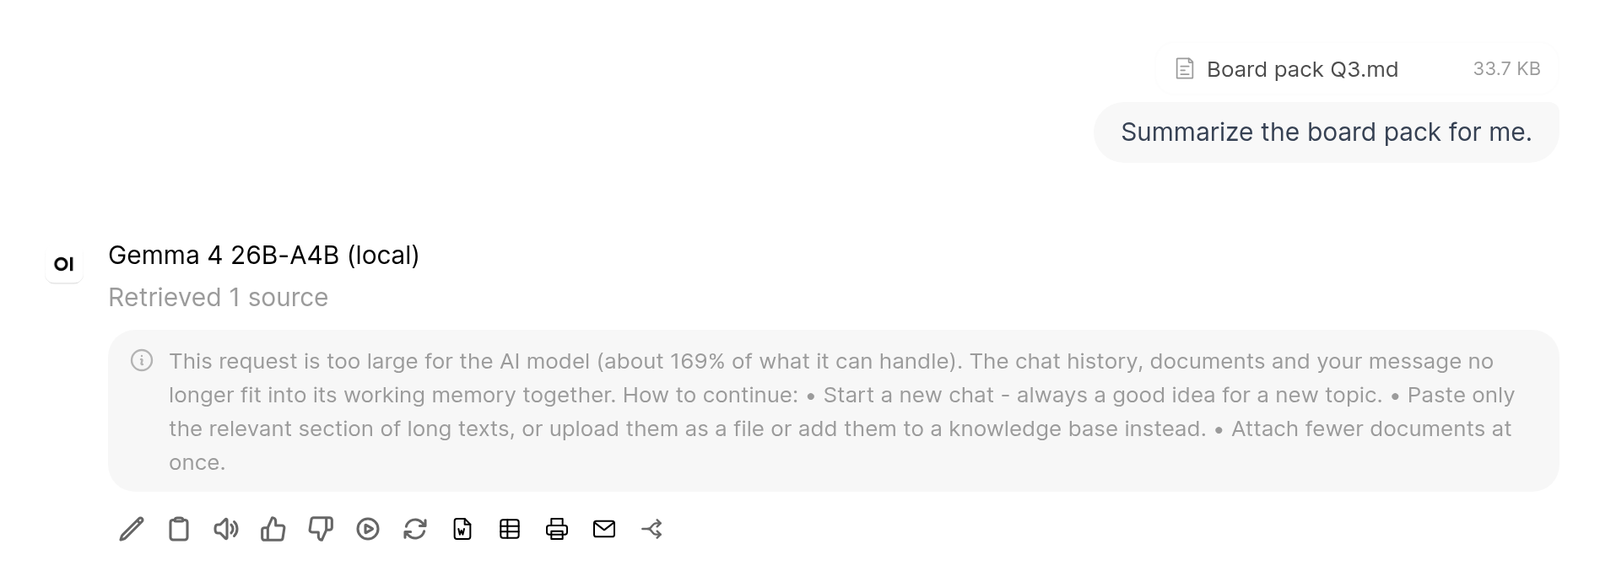
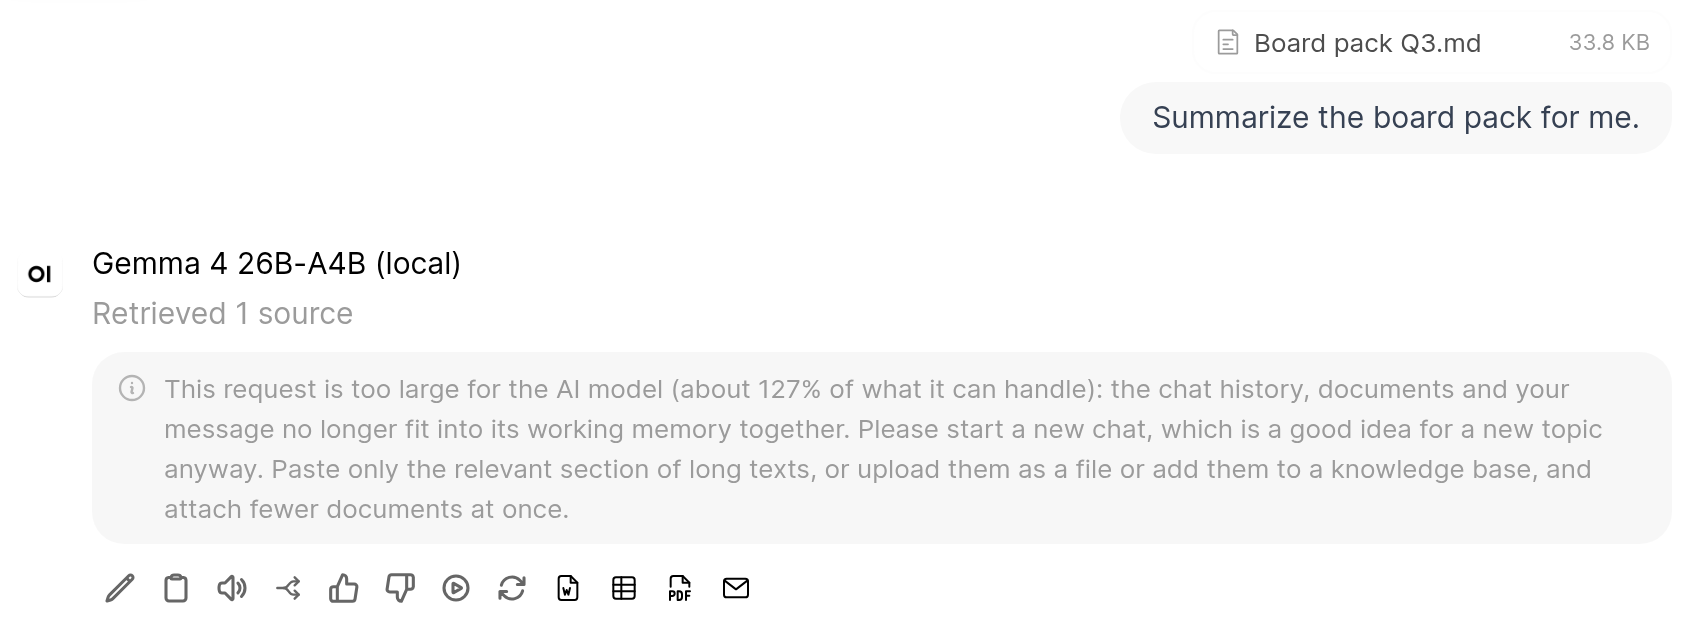
New screenshots of Context Guard's stop message and Response Export
Taken with Open WebUI 0.12.0: the stop message as flowing text, the PDF
button, and the exported Word, Excel and PDF files.

diff --git a/response-export/README.md b/response-export/README.md
@@ -18,7 +18,7 @@ Helvetica and Courier, which every PDF viewer has (see [Notes and limitations](#
 
 ![The four export buttons below an answer](images/buttons.png)
 
-![The exported Word document and Excel sheet](images/exported-files.png)
+![The exported Word document, Excel sheet and PDF file](images/exported-files.png)
 
 ## Install
 
